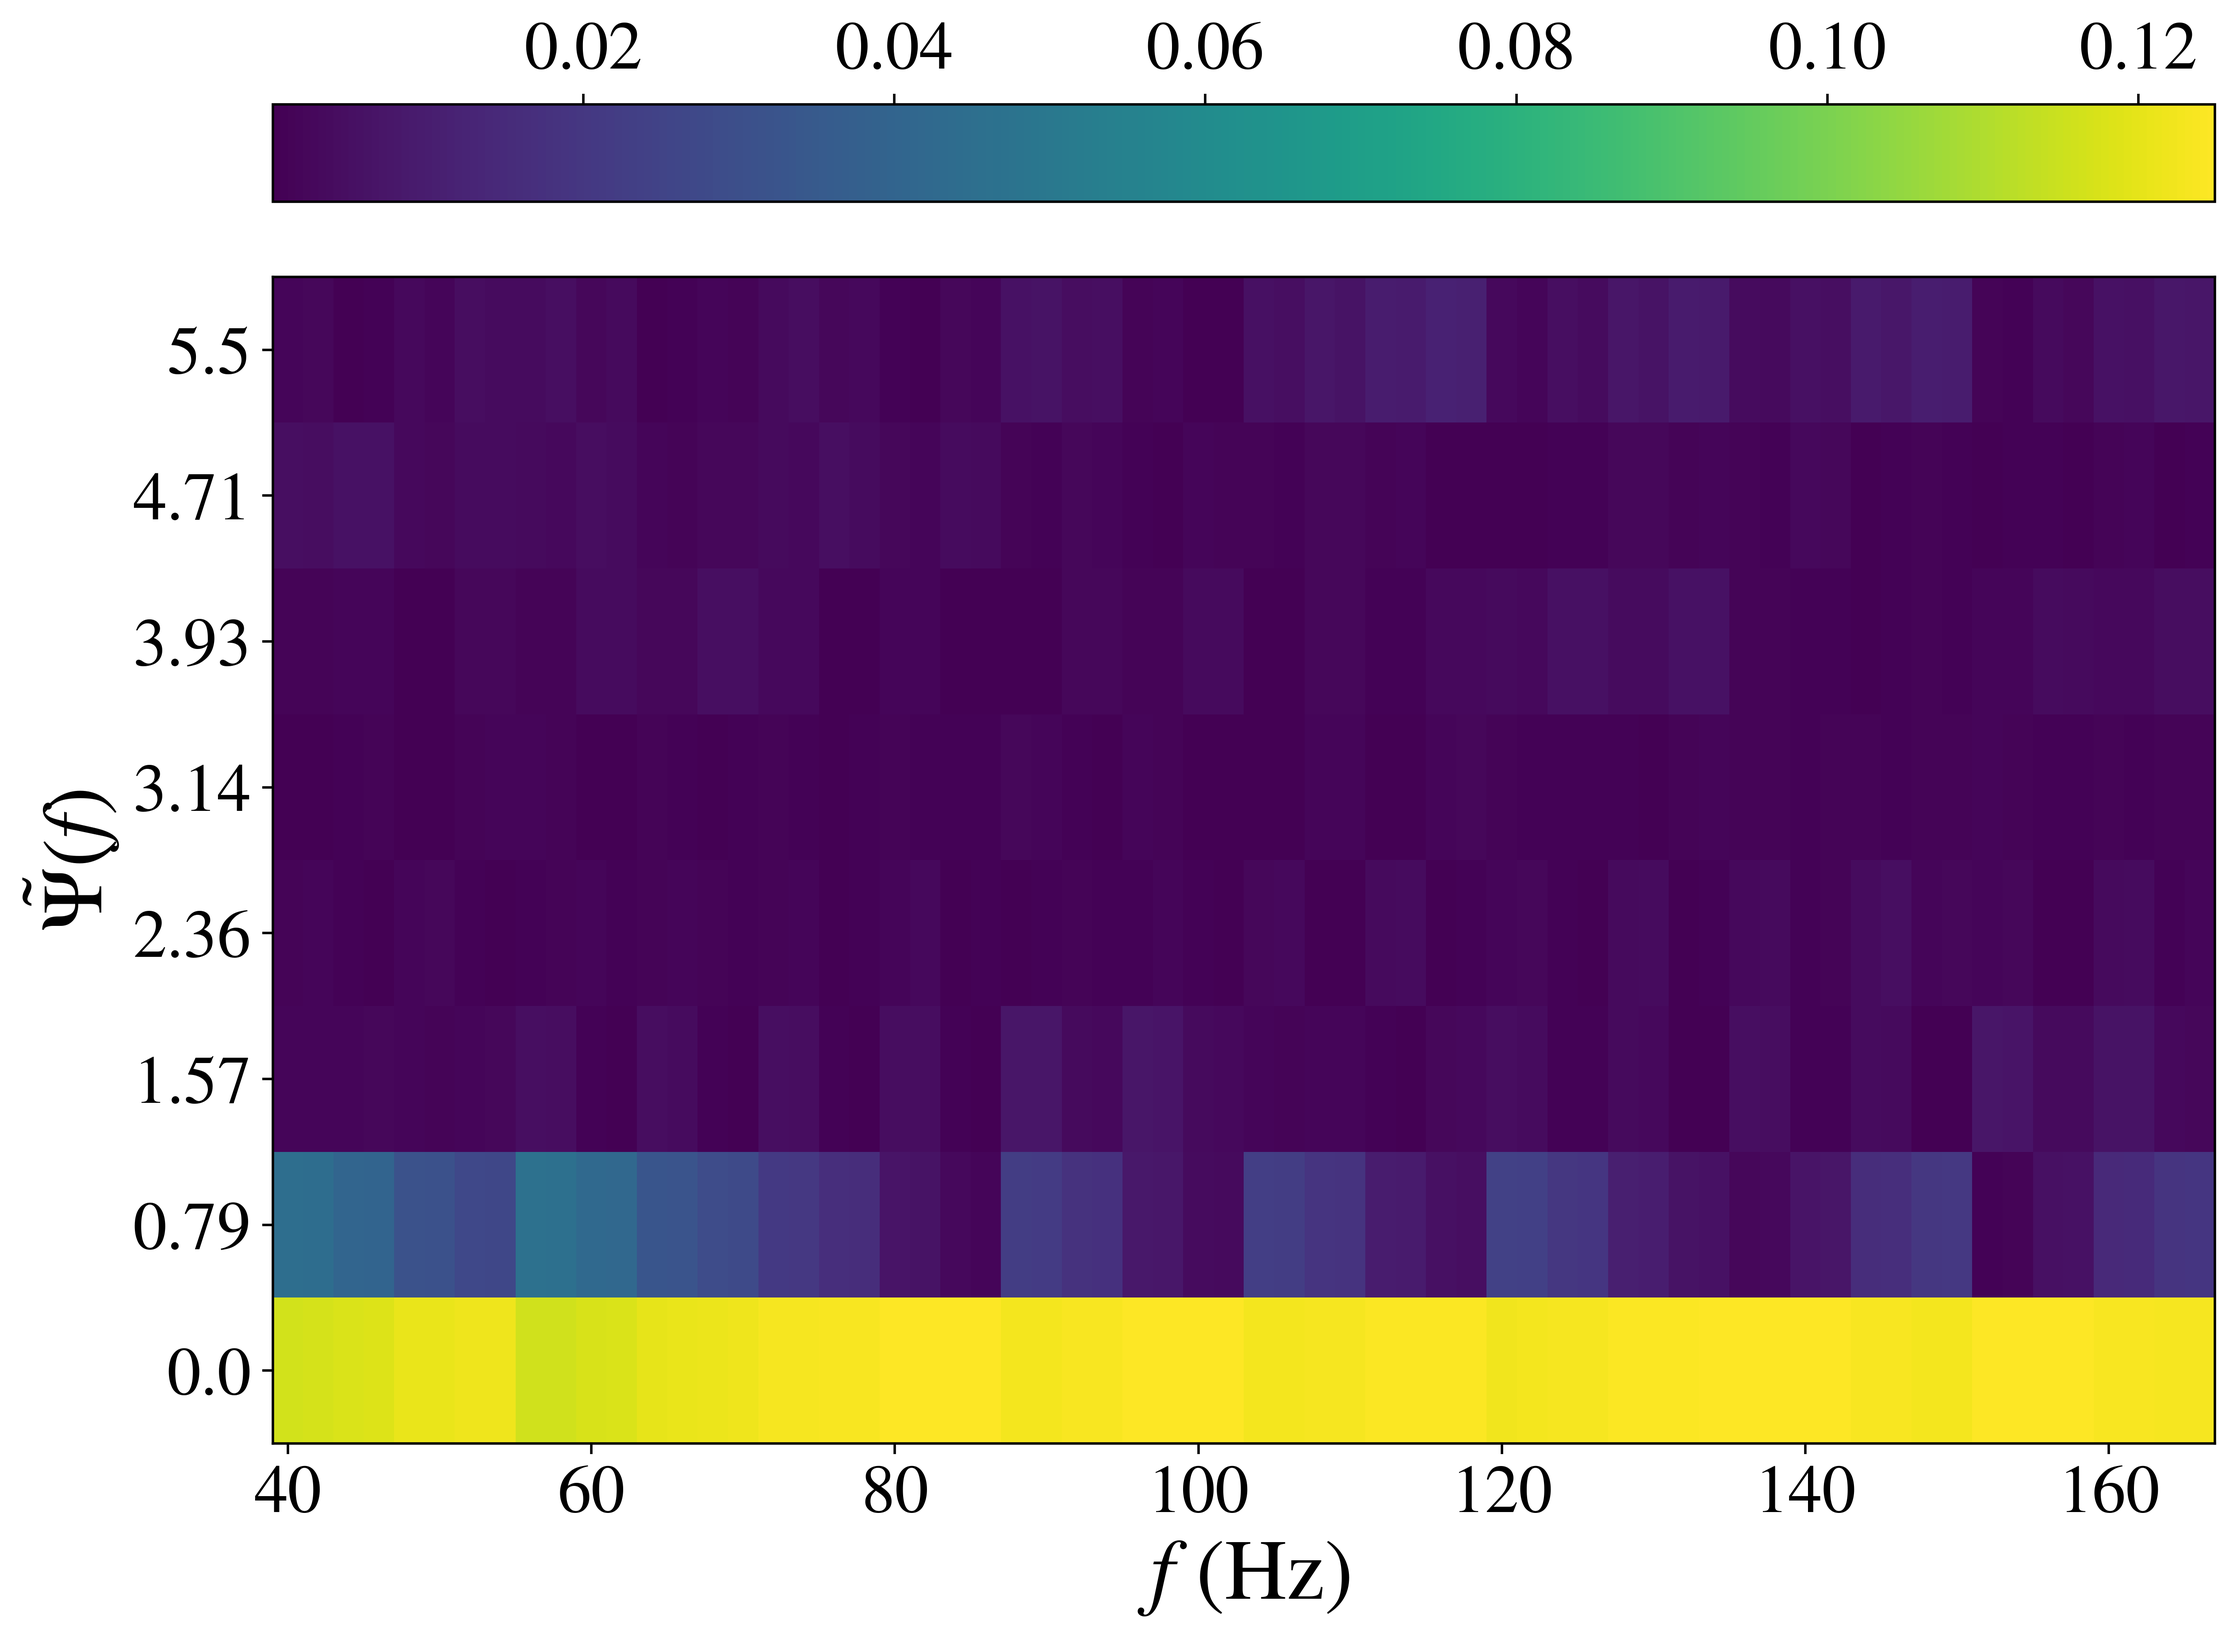
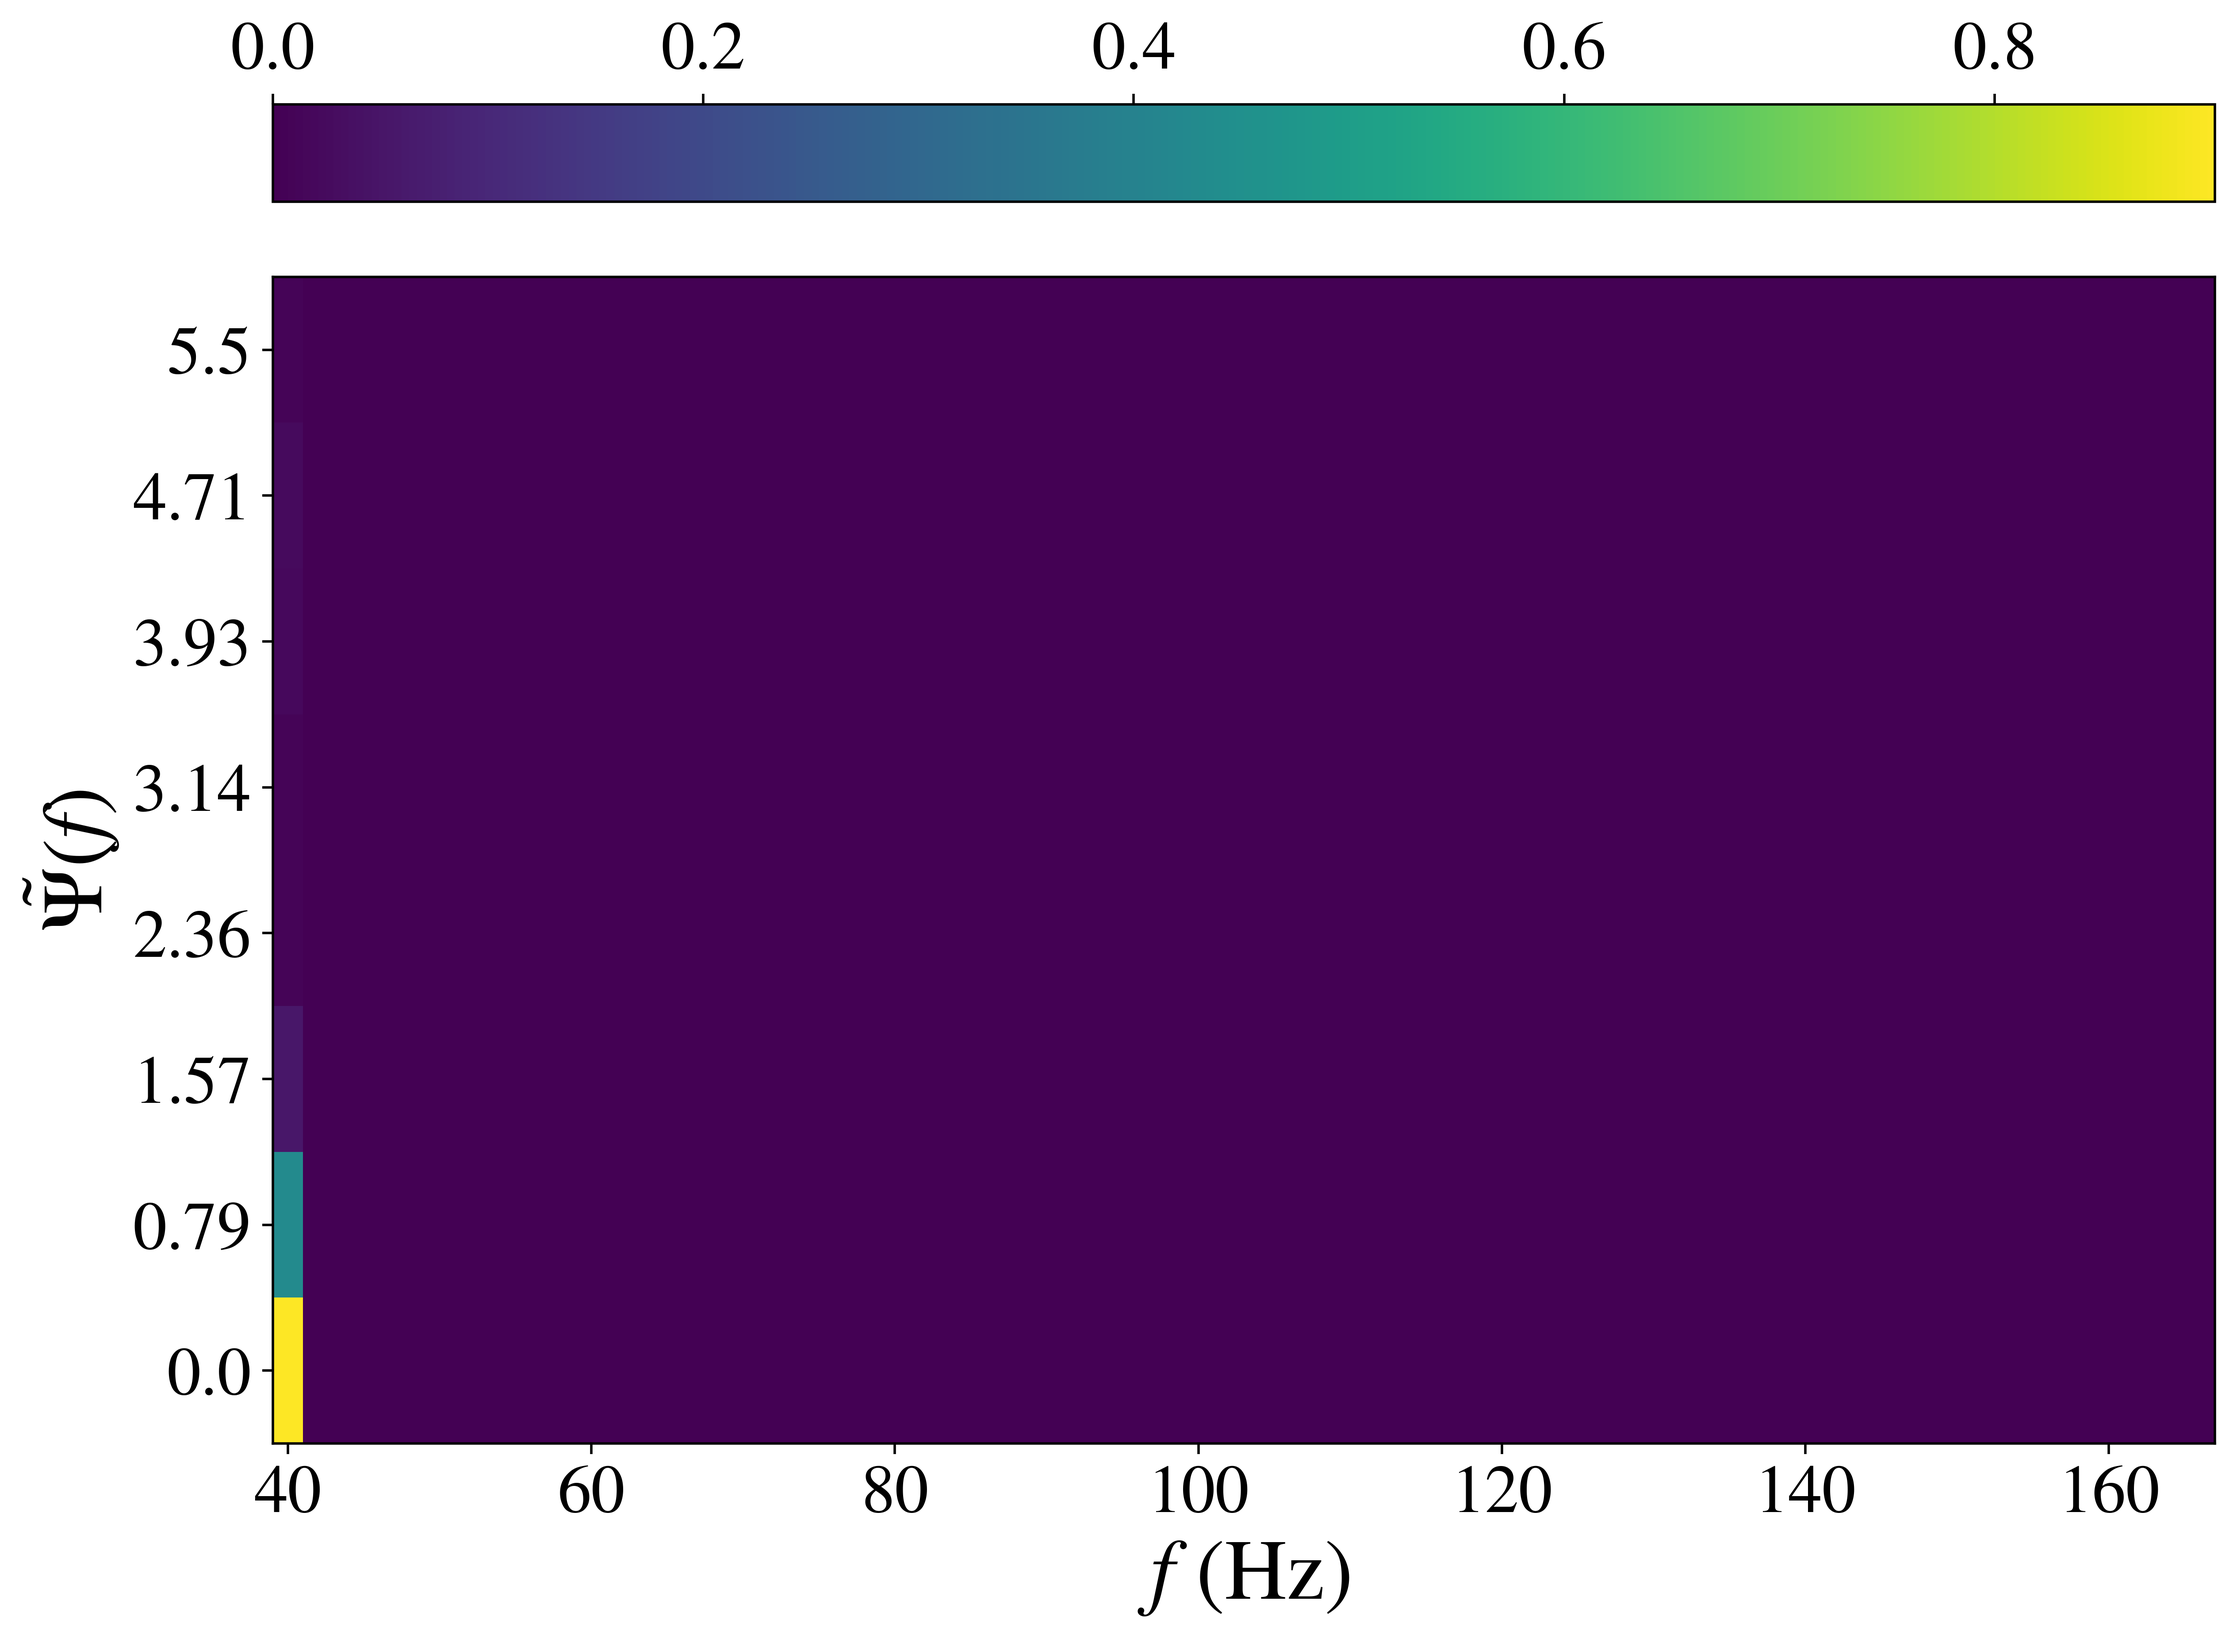
more undoing

diff --git a/pqcprep/tools.py b/pqcprep/tools.py
@@ -195,8 +195,8 @@ def train_QNN(n,m,L, seed, epochs, func,func_str,loss_str,meta, recover_temp, ni
     rng = np.random.default_rng(seed=seed)
 
     # generate circuit and set up as QNN 
-    qc = generate_network(n,m,L, encode=not train_superpos, toggle_IL=True, initial_IL=True,input_Ry=False, real=real,repeat_params=repeat_params, wrap=False)
-                                                                                            # undo later !!
+    qc = generate_network(n,m,L, encode=not train_superpos, toggle_IL=True, initial_IL=True,input_Ry=train_superpos, real=real,repeat_params=repeat_params, wrap=False)
+                                                                                        
     qnn = SamplerQNN(
                     circuit=qc.decompose(),           
                     sampler=Sampler(options={"shots": 10000, "seed": algorithm_globals.random_seed}),
@@ -360,8 +360,8 @@ def train_QNN(n,m,L, seed, epochs, func,func_str,loss_str,meta, recover_temp, ni
         var_grad_vals[i]=np.std(model.weight.grad.numpy())**2
         
         # set up circuit with calculated weights
-        circ = generate_network(n,m,L, encode=not train_superpos, toggle_IL=True, initial_IL=True,input_Ry=False, real=real,repeat_params=repeat_params, wrap=False)
-                                                                                                  # undo later !!!
+        circ = generate_network(n,m,L, encode=not train_superpos, toggle_IL=True, initial_IL=True,input_Ry=train_superpos, real=real,repeat_params=repeat_params, wrap=False)
+        
         with no_grad():
             generated_weights = model.weight.detach().numpy()   
         if train_superpos:

diff --git a/pqcprep/pqc_tools.py b/pqcprep/pqc_tools.py
@@ -530,13 +530,15 @@ def generate_network(n,m,L, encode=False, toggle_IL=True, initial_IL=True, input
         circuit.compose(digital_encoding(n), input_register, inplace=True)
 
     if input_Ry:
+        circuit.h(input_register)  
+        ## DELETE THIS LATER 
+        """
         input_Ry_params = ParameterVector("\u03B8_input_Ry",n)
 
         for i in np.arange(n):
             circuit.ry(input_Ry_params[i], input_register[i])
-
-    circuit.h(input_register)        ## DELETE THIS LATER 
-
+        """
+         
     if initial_IL: 
         # apply input layer 
         circuit.compose(input_layer(n,m, u"\u03B8_IL_0", real=real, params=IL_params, wrap=wrap), circuit.qubits, inplace=True)

diff --git a/encode.py b/encode.py
@@ -9,10 +9,10 @@ from pqcprep.psi_tools import psi
 L_phase = 6
 real_p = True 
 m = 3
-weights_phase ="pqcprep/outputs/weights_6_3(0)_6_600_quadratic_SAM_nosign(S)(PR)(r)_1680458526.npy" #"outputs/weights_6_3(0)_6_600_psi_MM_(S)(PR)(r).npy" 
+weights_phase ="pqcprep/outputs/weights_6_3(0)_6_600_psi_SAM_0.0_test(S)(PR)(r)_1680458526.npy" #"outputs/weights_6_3(0)_6_600_psi_MM_(S)(PR)(r).npy" 
 
 repeat_params=None
-psi_mode="quadratic"
+psi_mode="psi"
 
 operators="Q"
 no_UA=True
